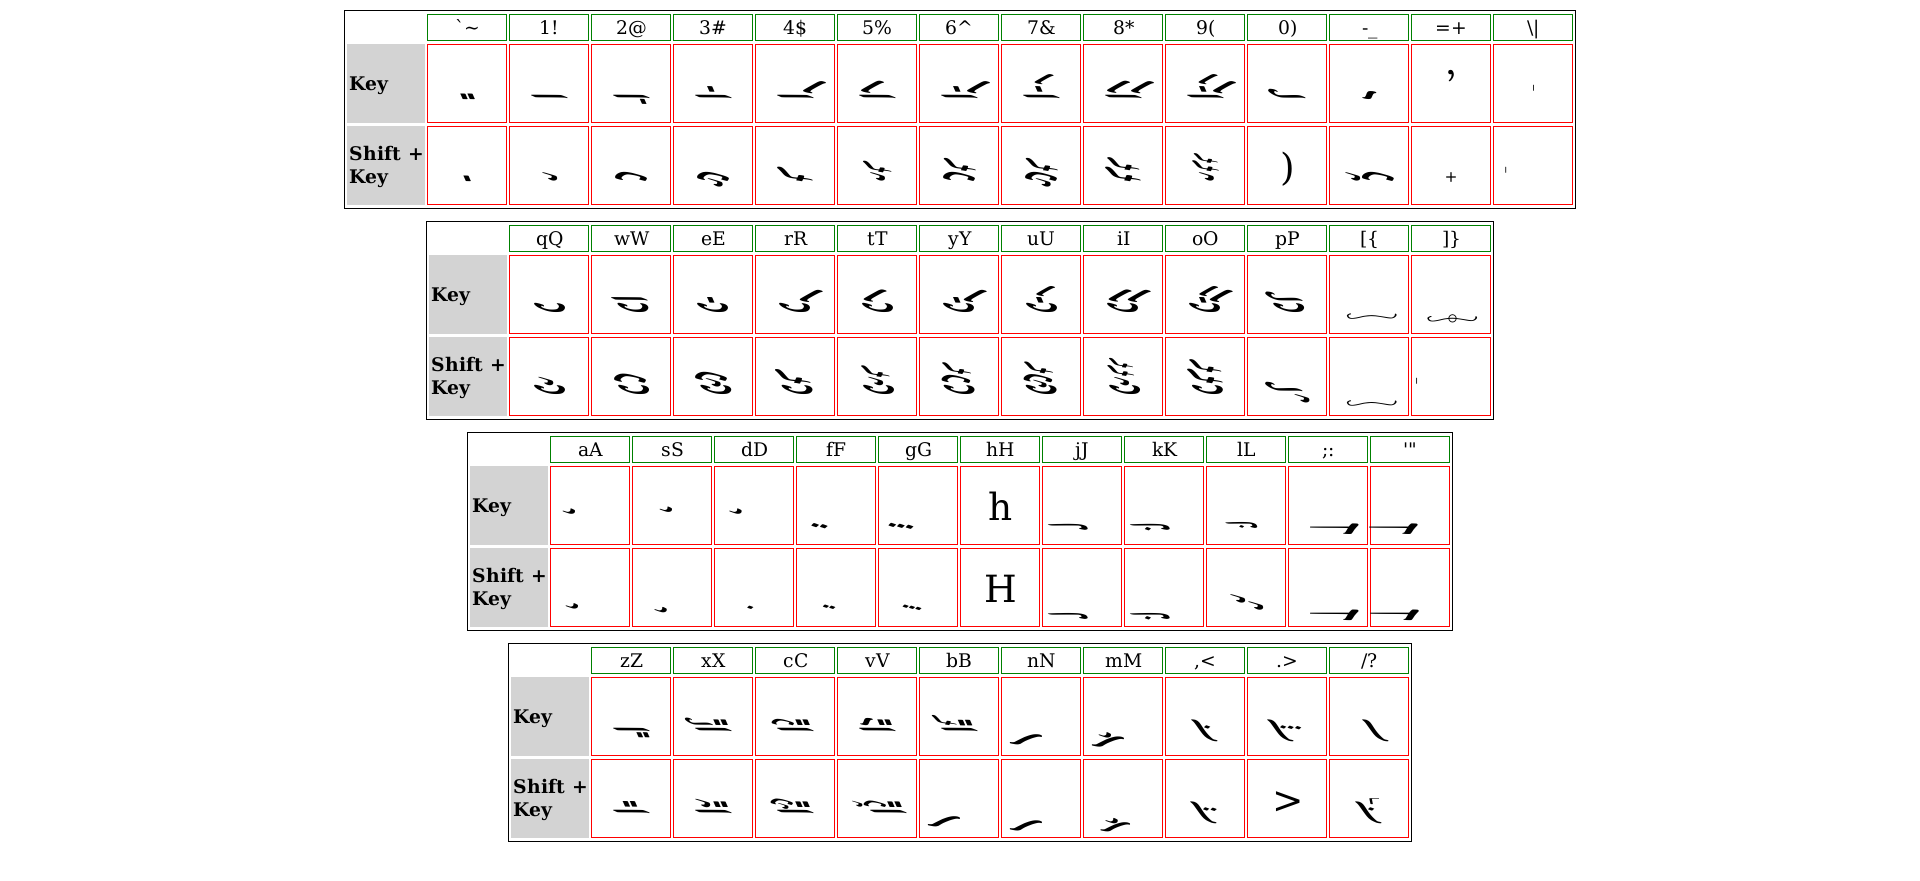
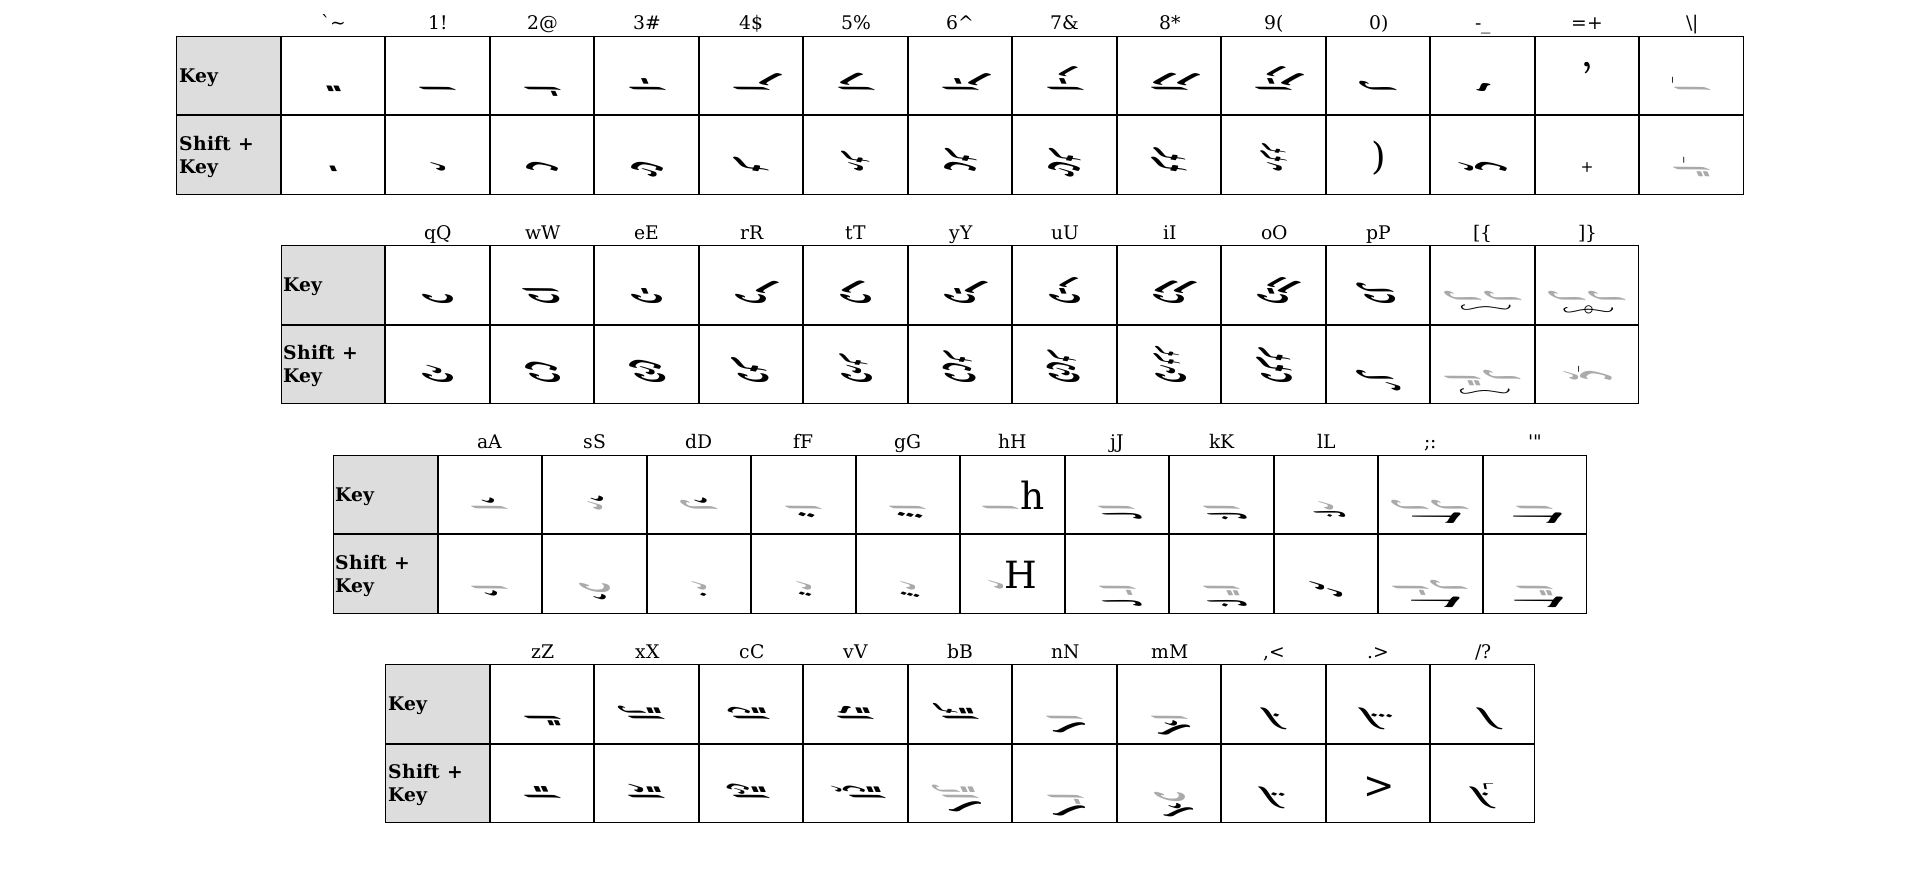
update keyboard.html and layout images

Changed region(s): [[0.0938, 0.0, 0.875, 0.9501], [0.8125, 0.3371, 0.8438, 0.3678]]

diff --git a/web/keyboard.html b/web/keyboard.html
@@ -18,30 +18,29 @@
       text-align: center;
       vertical-align: top;
       letter-spacing: 0;
-      border: 1px solid black;
-      margin-bottom: 10px;
+      border-spacing: 0;
+      border-collapse: separate;
+      padding: 0;
+      margin-bottom: 20px;
       margin-left: auto;
       margin-right: auto;
     }
 
-    table thead td {
-      border: 1px solid green;
-    }
-
     table tbody th {
       text-align: left;
-      background-color: lightgray;
+      background-color: #ddd;
     }
 
     table thead tr td,
     table tbody tr th,
     table tbody tr td {
-      width: 60px;
+      width: 80px;
     }
 
     table tbody tr th,
     table tbody tr td {
       height: 60px;
+      border: 1px solid black;
     }
 
     table tbody td {
@@ -49,7 +48,10 @@
       /* font-family: 'KAArvanitisMain-Regular'; */
       /* font-family: 'KANewStathisMain-Regular'; */
       font-size: 30px;
-      border: 1px solid red;
+    }
+
+    table tbody td span {
+      color: #aaa;
     }
   </style>
   </head>
@@ -92,7 +94,7 @@
           <td>0</td>
           <td>-</td>
           <td>=</td>
-          <td>\</td>
+          <td>\<span>1</span></td>
         </tr>
         <tr>
           <th>Shift + Key</th>
@@ -109,7 +111,7 @@
           <td>)</td>
           <td>_</td>
           <td>+</td>
-          <td>|</td>
+          <td><span>z</span>|</td>
         </tr>
       </tbody>
     </table>
@@ -146,8 +148,8 @@
           <td>i</td>
           <td>o</td>
           <td>p</td>
-          <td>[</td>
-          <td>]</td>
+          <td><span>0</span>[<span>0</span></td>
+          <td><span>0</span>]<span>0</span></td>
         </tr>
         <tr>
           <th>Shift + Key</th>
@@ -161,8 +163,8 @@
           <td>I</td>
           <td>O</td>
           <td>P</td>
-          <td>{</td>
-          <td>}</td>
+          <td><span>z</span>{<span>0</span></td>
+          <td><span>_</span>}</td>
         </tr>
       </tbody>
     </table>
@@ -188,31 +190,31 @@
       <tbody>
         <tr>
           <th>Key</th>
-          <td>a</td>
-          <td>s</td>
-          <td>d</td>
-          <td>f</td>
-          <td>g</td>
-          <td>h</td>
-          <td>j</td>
-          <td>k</td>
-          <td>l</td>
-          <td>;</td>
-          <td>'</td>
+          <td><span>1</span>a</td>
+          <td><span>!</span>s</td>
+          <td><span>0</span>d</td>
+          <td><span>1</span>f</td>
+          <td><span>1</span>g</td>
+          <td><span>1</span>h</td>
+          <td><span>1</span>j</td>
+          <td><span>1</span>k</td>
+          <td><span>!</span>l</td>
+          <td><span>0</span>;<span>0</span></td>
+          <td><span>1</span>'</td>
         </tr>
         <tr>
           <th>Shift + Key</th>
-          <td>A</td>
-          <td>S</td>
-          <td>D</td>
-          <td>F</td>
-          <td>G</td>
-          <td>H</td>
-          <td>J</td>
-          <td>K</td>
+          <td><span>1</span>A</td>
+          <td><span>q</span>S</td>
+          <td><span>!</span>D</td>
+          <td><span>!</span>F</td>
+          <td><span>!</span>G</td>
+          <td><span>!</span>H</td>
+          <td><span>2</span>J</td>
+          <td><span>z</span>K</td>
           <td>L</td>
-          <td>:</td>
-          <td>"</td>
+          <td><span>2</span>:<span>0</span></td>
+          <td><span>z</span>"</td>
         </tr>
       </tbody>
     </table>
@@ -242,8 +244,8 @@
           <td>c</td>
           <td>v</td>
           <td>b</td>
-          <td>n</td>
-          <td>m</td>
+          <td><span>1</span>n</td>
+          <td><span>1</span>m</td>
           <td>,</td>
           <td>.</td>
           <td>/</td>
@@ -254,9 +256,9 @@
           <td>X</td>
           <td>C</td>
           <td>V</td>
-          <td>B</td>
-          <td>N</td>
-          <td>M</td>
+          <td><span>x</span>B</td>
+          <td><span>2</span>N</td>
+          <td><span>q</span>M</td>
           <td>&lt;</td>
           <td>&gt;</td>
           <td>?</td>
